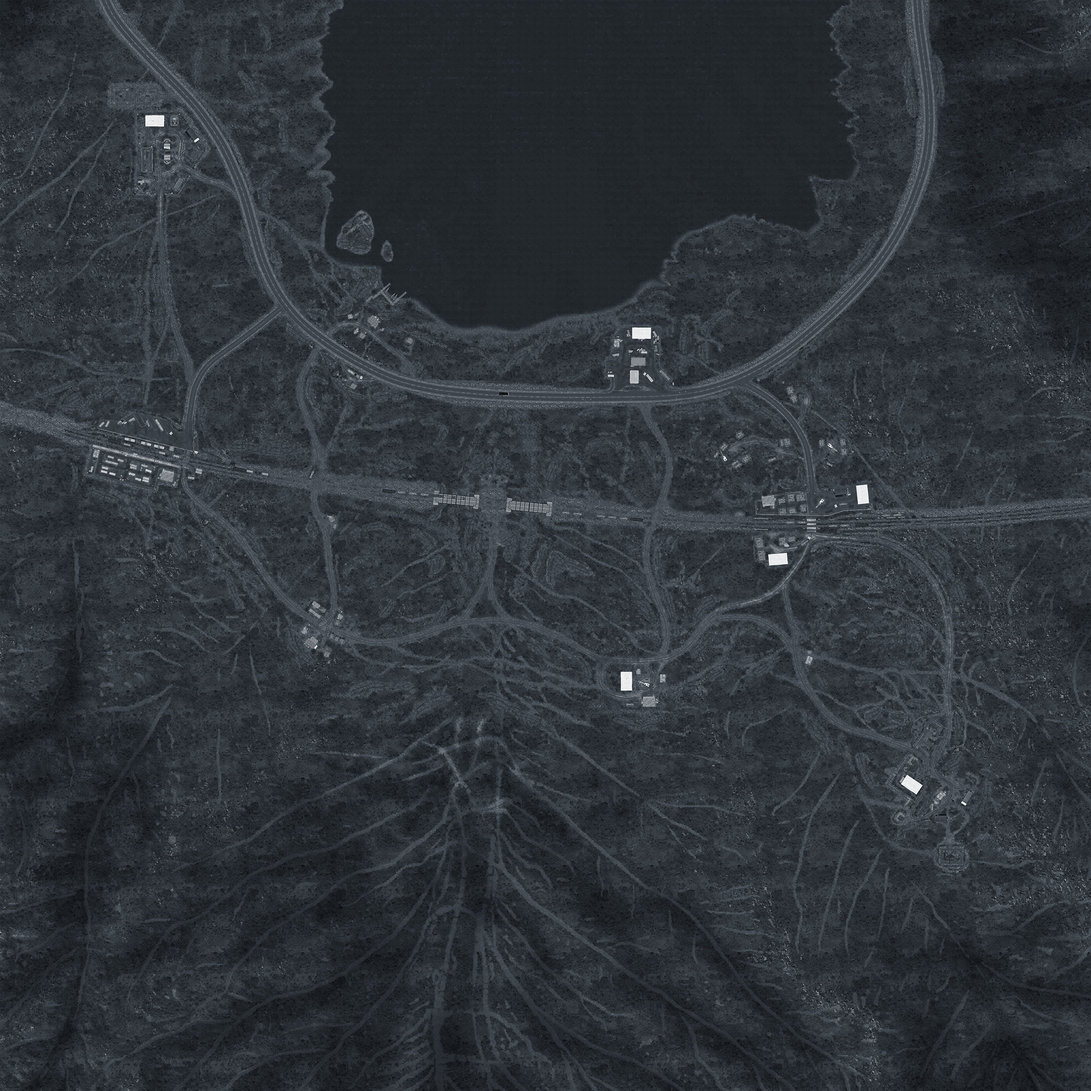
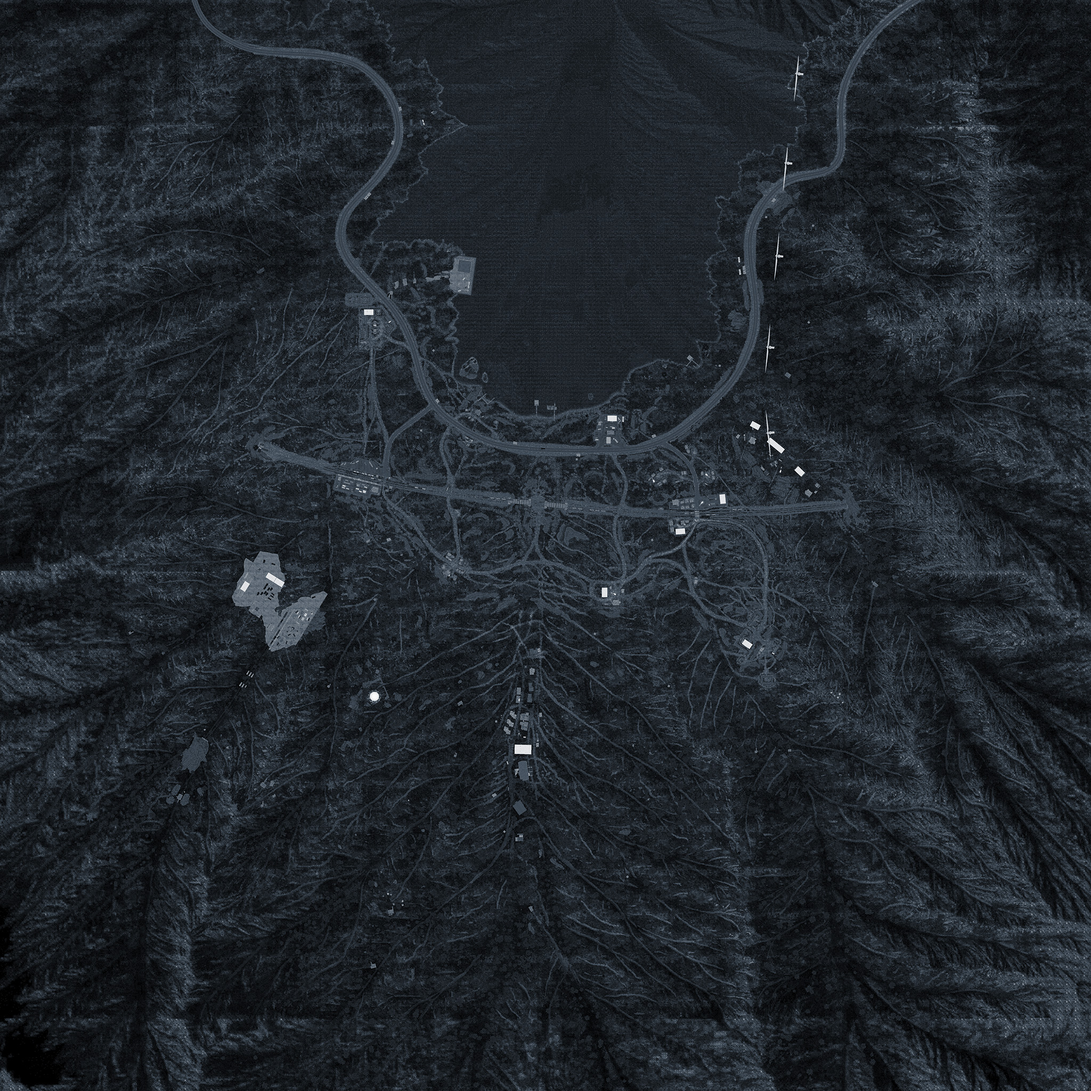
refactor(minimap): new minimap texture

diff --git a/ui/src/components/map/MapPixi.tsx b/ui/src/components/map/MapPixi.tsx
@@ -5,10 +5,6 @@ import { RootState } from '../../store/RootReducer';
 import { Stage, Sprite, PixiComponent, useApp } from '@inlet/react-pixi';
 import { Viewport } from 'pixi-viewport';
 
-import Vec3 from '../../helpers/Vec3Helper';
-import Player from '../../helpers/PlayerHelper';
-import Ping from '../../helpers/PingHelper';
-
 import XP5_003 from "../../assets/img/XP5_003.jpg";
 import { MapsConfig } from '../../helpers/MapsConfigHelper';
 import { sendToLua } from '../../Helpers';
@@ -37,7 +33,7 @@ const widthAndHeight = 1024;
 
 // Based on map config
 let textureWidthHeight: number = 1024;
-let worldWidthHeight: number = 1250;
+let worldWidthHeight: number = 2500;
 
 let topLeftPos = {
     x: 0,
@@ -118,7 +114,7 @@ const MapPixi: React.FC<Props> = ({ open }) => {
     const viewportRef = useRef(null);
     const followPlayer = useRef(null);
 
-    const [snapZoomHeight, setSnapZoomHeight] = useState<number>(300);
+    const [snapZoomHeight, setSnapZoomHeight] = useState<number>(150);
 
     const focus = useCallback(() => {
         const viewport = viewportRef.current;
@@ -170,18 +166,18 @@ const MapPixi: React.FC<Props> = ({ open }) => {
     window.OnMapZoomChange = () => {
         if (!open) {
             switch (snapZoomHeight) {
-                case 300:
-                    setSnapZoomHeight(500);
-                    follow(500);
-                    break;
-                case 500:
-                    setSnapZoomHeight(800);
-                    follow(800);
-                    break;
-                case 800:
-                default:
+                case 150:
                     setSnapZoomHeight(300);
                     follow(300);
+                    break;
+                case 300:
+                    setSnapZoomHeight(600);
+                    follow(600);
+                    break;
+                case 600:
+                default:
+                    setSnapZoomHeight(150);
+                    follow(150);
                     break;
             }
         }

diff --git a/ui/src/components/map/elements/ElementHelpers.ts b/ui/src/components/map/elements/ElementHelpers.ts
@@ -6,11 +6,11 @@ import viewAngles from "../../../assets/img/viewangles_texture.png";
 const viewAnglesTexture = PIXI.Texture.from(viewAngles);
 
 export const drawPlayer = (g: any, color: number) => {
-    var sideLength = 20;
+    var sideLength = 12;
     g.clear();
     g.beginFill(color, 0.4);    
     g.lineStyle({
-        width: 6,
+        width: 4,
         color: color,
         alpha: 1,
         join: PIXI.LINE_JOIN.ROUND,
@@ -26,7 +26,7 @@ export const drawPlayer = (g: any, color: number) => {
 };
 
 export const drawPlayerVision = (g: any) => {
-    var sideLength = 70;
+    var sideLength = 50;
     g.filters = [];
     g.clear();
     
@@ -39,11 +39,11 @@ export const drawPlayerVision = (g: any) => {
         matrix: textureMatrix,
         alpha: 0.35,
     });
-    g.moveTo(-10, -7);
+    g.moveTo(-5, -7);
     g.lineTo(0 - sideLength, -sideLength * 1.5);
     g.lineTo(0 + sideLength, -sideLength * 1.5);
-    g.lineTo(10, -7);
-    g.lineTo(0, -20);
+    g.lineTo(5, -7);
+    g.lineTo(0, -10);
     g.closePath();
     g.endFill();
 };

diff --git a/ui/src/helpers/MapsConfigHelper.ts b/ui/src/helpers/MapsConfigHelper.ts
@@ -2,10 +2,10 @@
 export var MapsConfig:any = {
     ["XP5_003"]: {
         topLeftPos: {
-            x: 667.28,
-            z: -290.44,
+            x: 1334.88,
+            z: 286.57,
         },
         textureWidthHeight: 1024,
-        worldWidthHeight: 1250,
+        worldWidthHeight: 2500,
     },
 };
